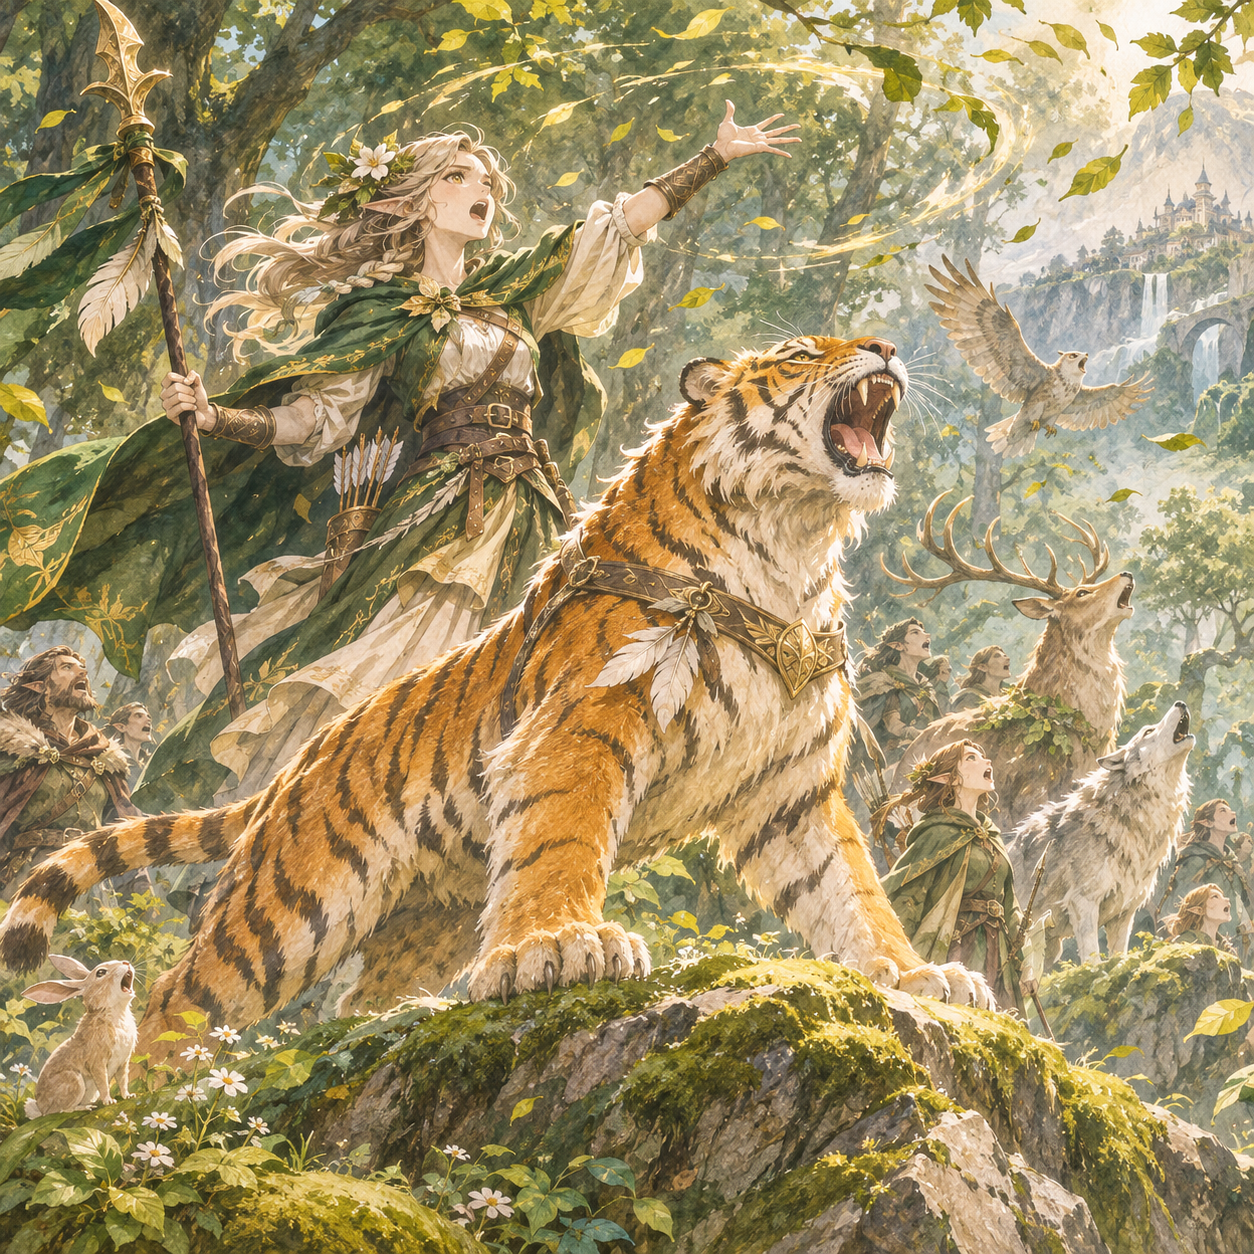
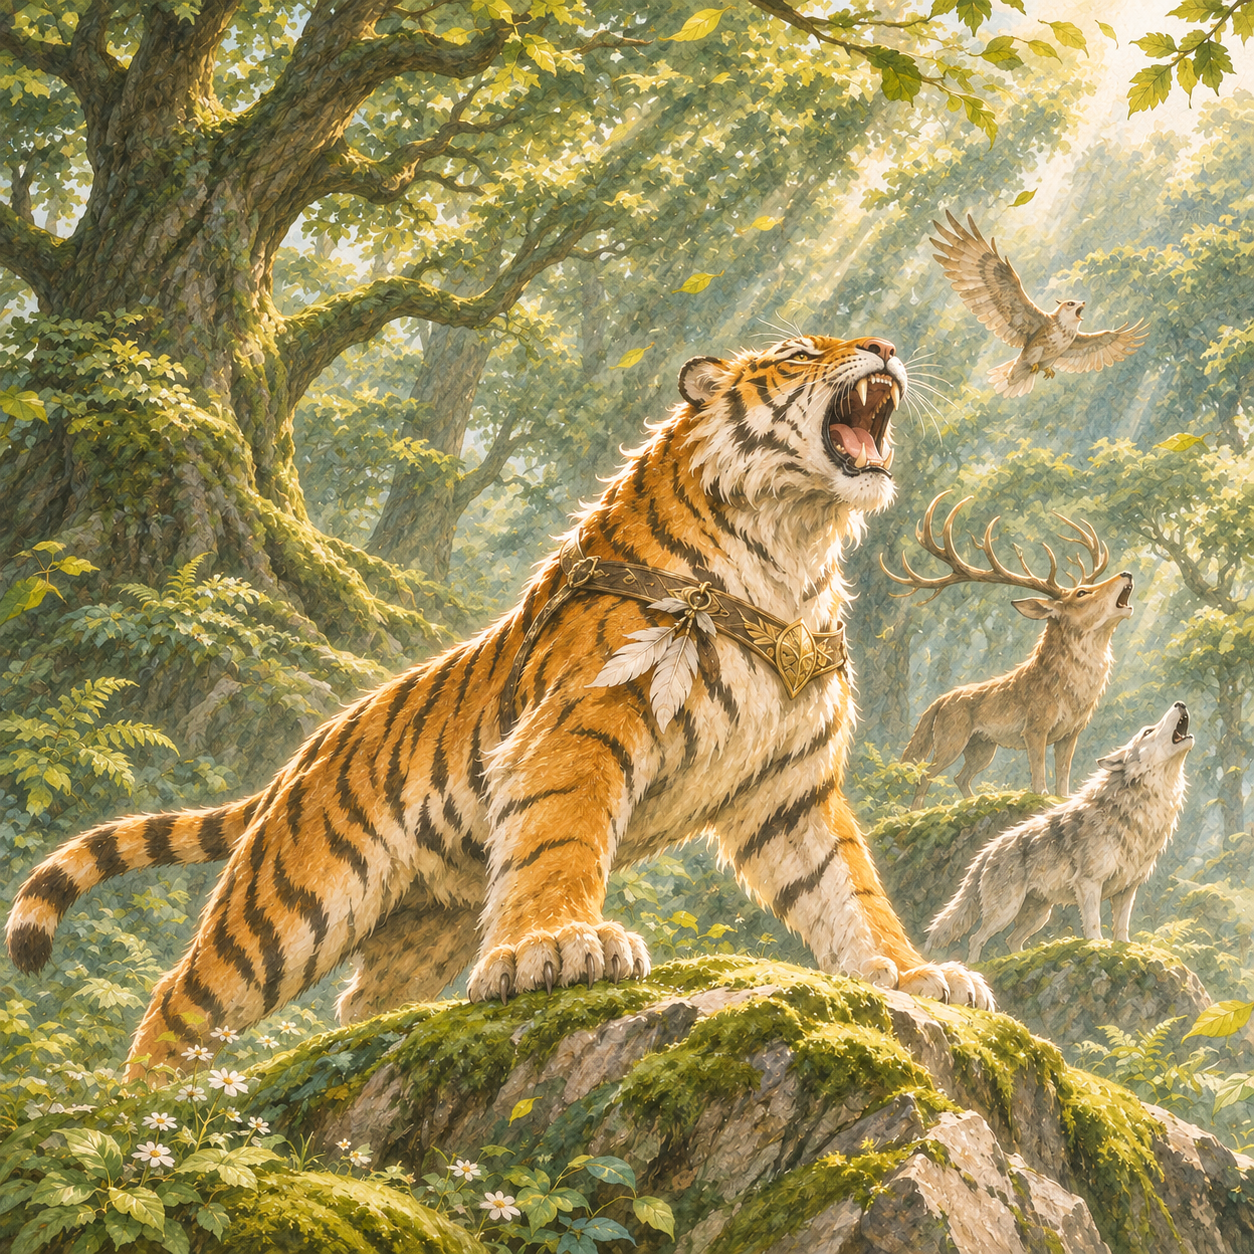
修订老虎候选并记录人物参考范围

diff --git a/HANDOFF.md b/HANDOFF.md
@@ -2646,3 +2646,6 @@ art_src/2026-11-23_frames 包含六类独立卡框和提示词框架。内置ima
 
 ## 第五批森林精魄候选
 9038 老虎、9039 乌鸦、9040 猎犬已生成并归档到 art_src/2026-11-24_卡图风格修复_batch05，附设计说明与完整提示。累计19张候选，待审阅、卡窗验证。后续继续非机械职业。
+
+## 9038 老虎候选修订与人物参考
+第五批 9038 已替换为傲虎、鹿、狼与飞鸟，已目检，待装框。后续卡图需要人物时，优先参考对应角色 CG 与生成时最近 24 小时内尚未应用的新卡图人物，检索范围包括该时间窗内的远程推送。
